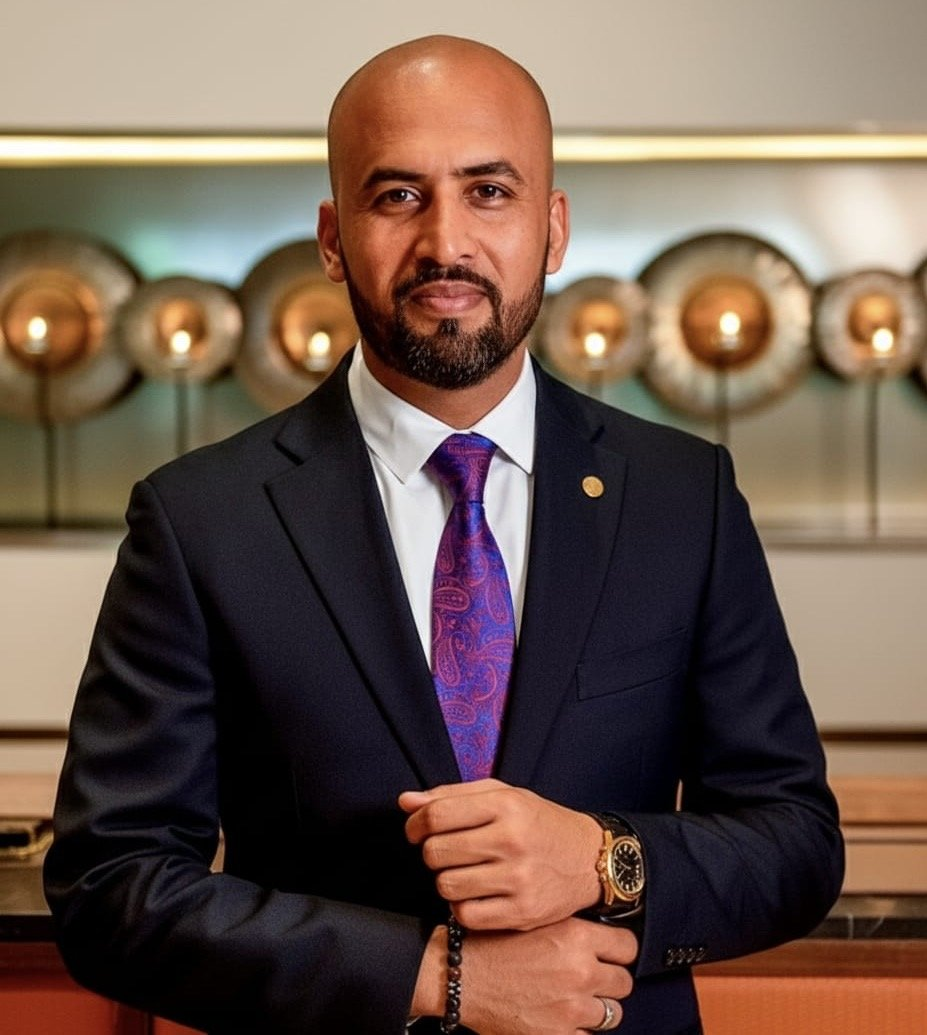
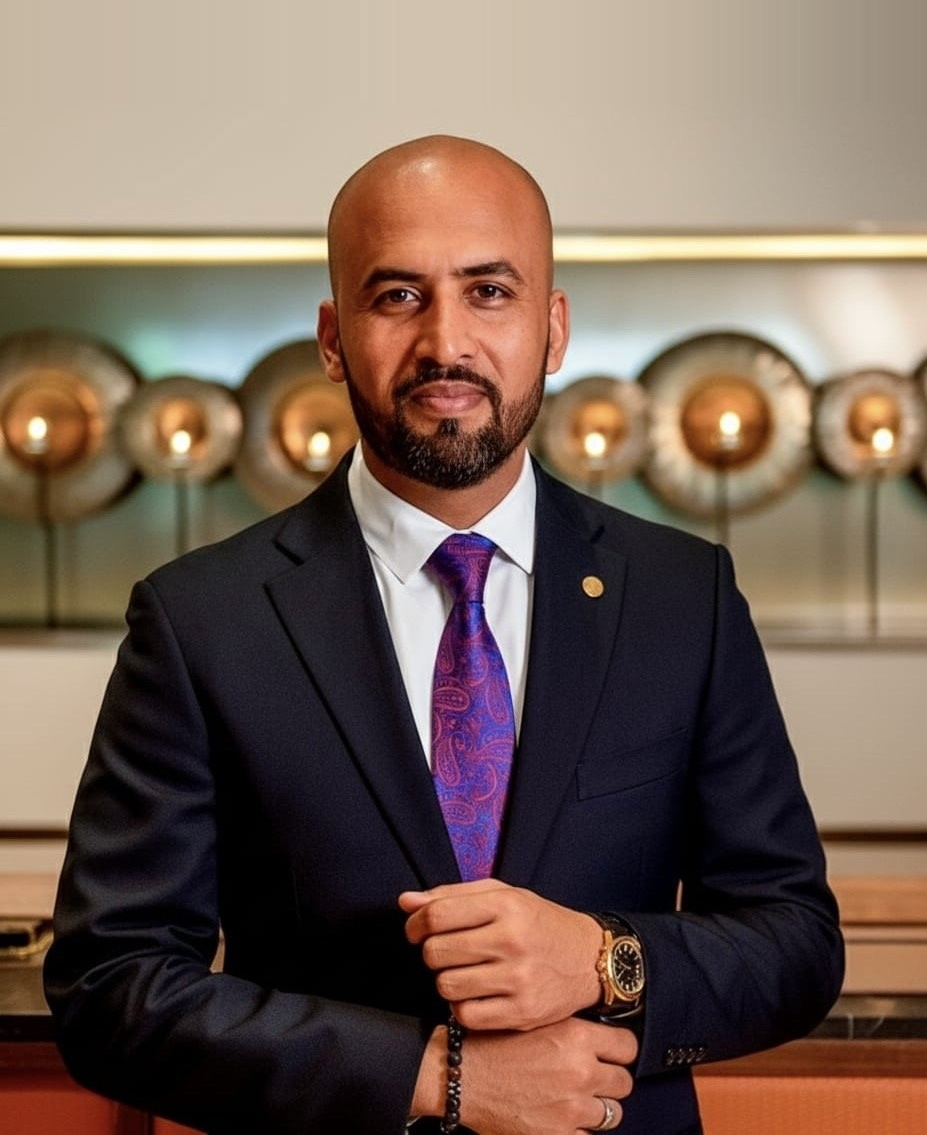
Adjust profile images aspect ratios and top headroom padding, update CSS object-position

diff --git a/styles.css b/styles.css
@@ -367,7 +367,7 @@ strong {
   height: 100%;
   border-radius: 50%;
   object-fit: cover;
-  object-position: center 15%;
+  object-position: center 10%;
   border: 3px solid var(--color-bg-base);
   box-shadow: var(--shadow-main);
   z-index: 2;
